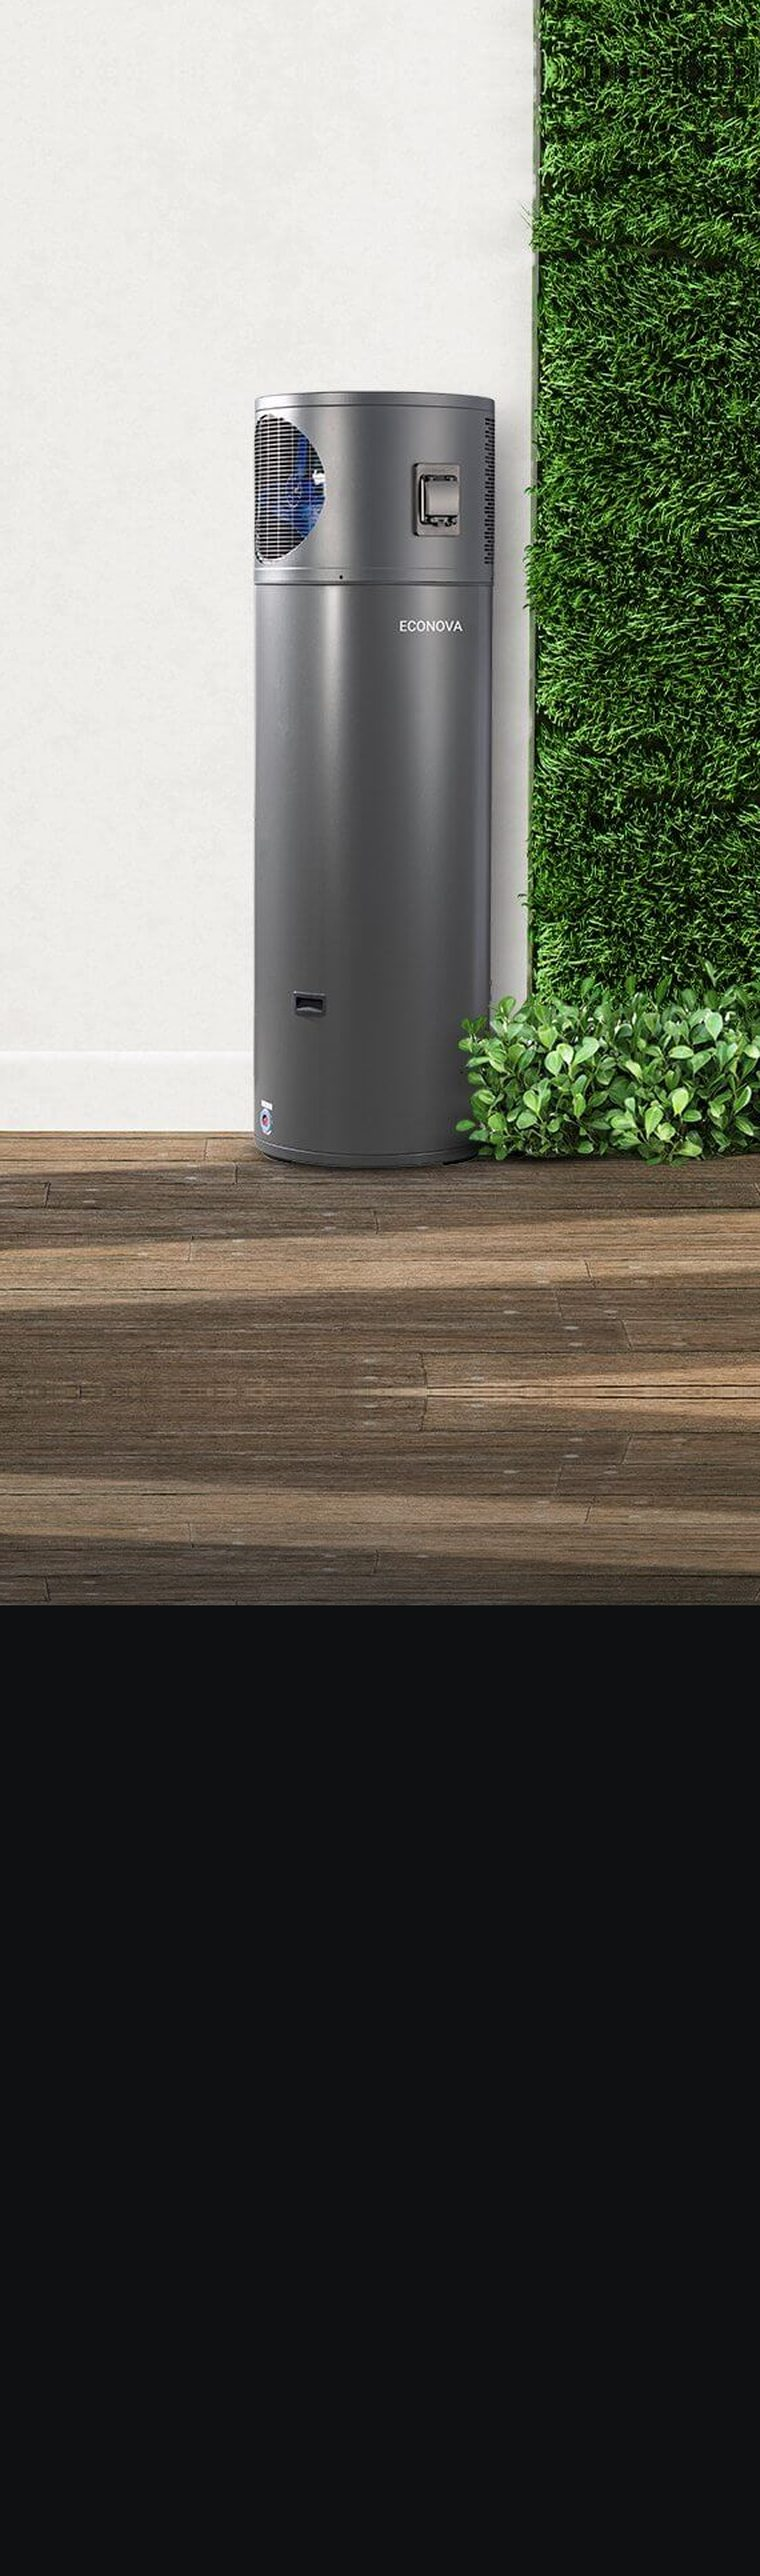
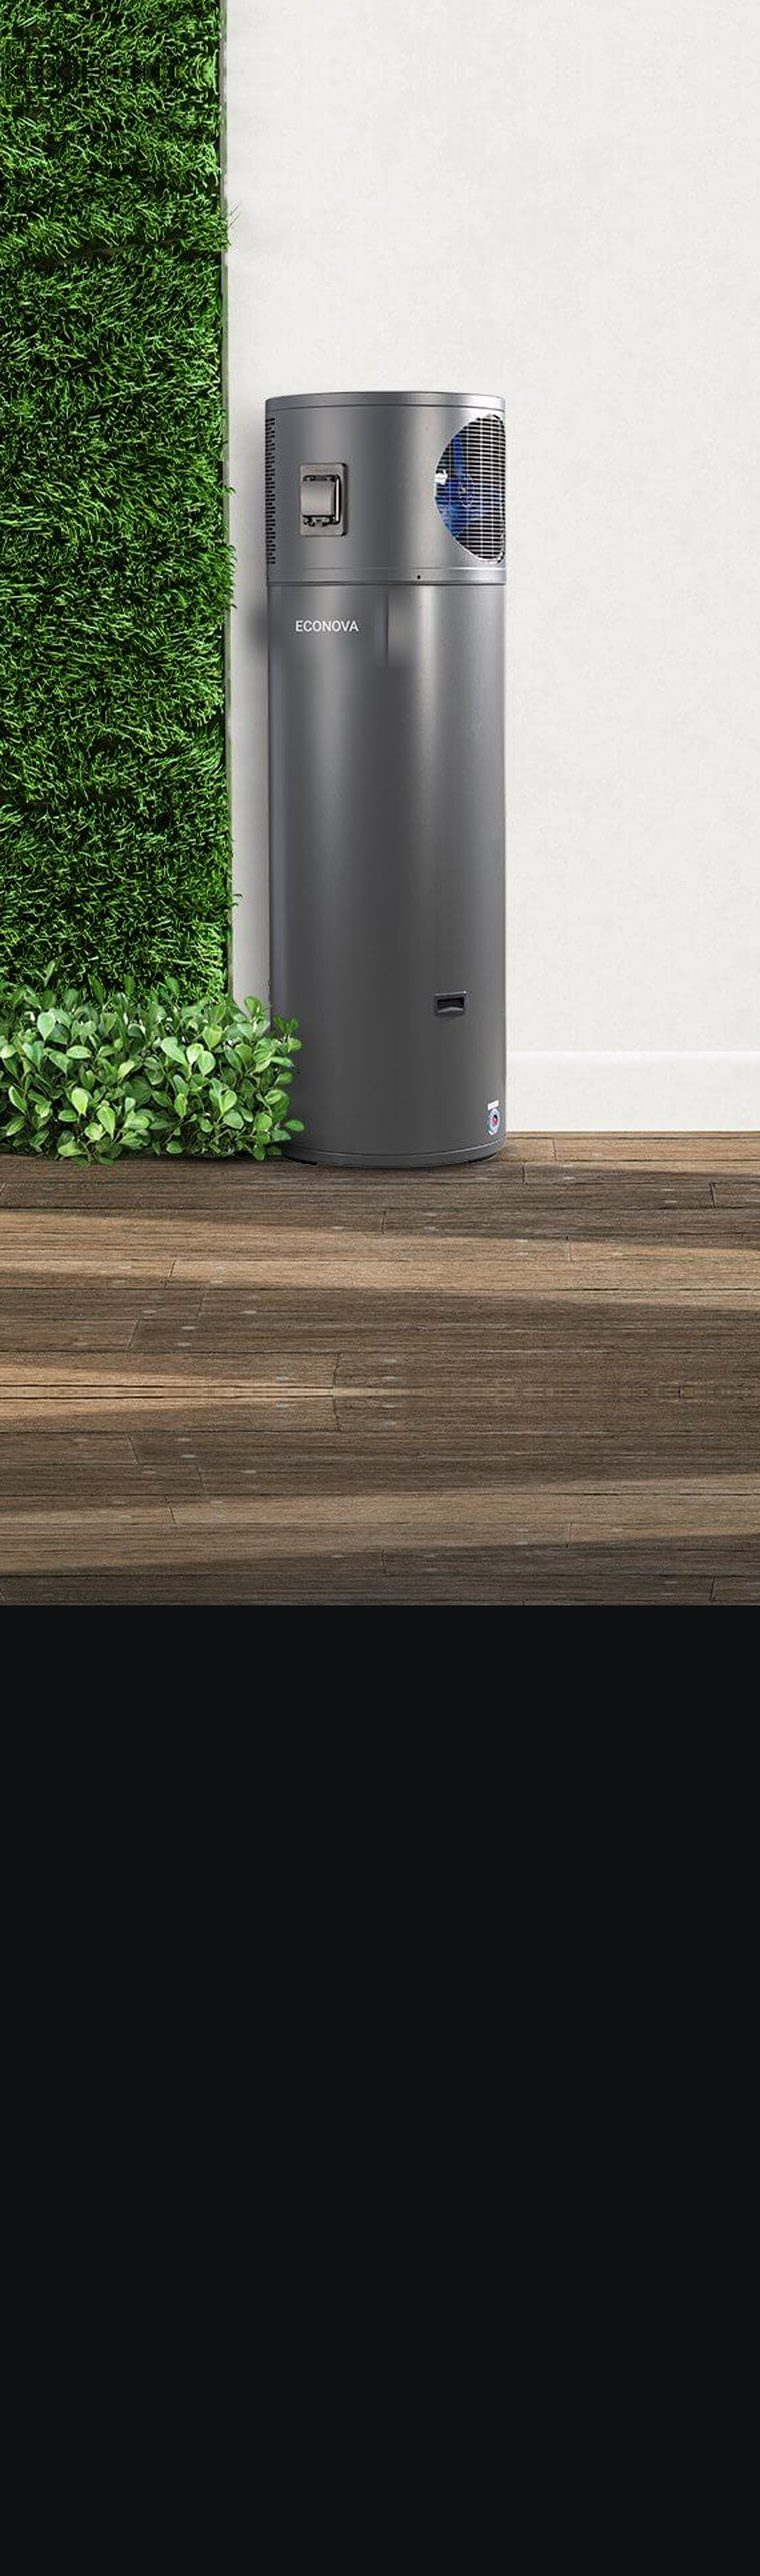
Heat pumps LP: mirror the hero scene so the unit clears the hero card
The background unit sat directly behind the overlaid hero card photo.
Mirrored both hero images (desktop + phone crop) so it sits on the open
side, and flipped the ECONOVA badge patch back so the brand still reads
the right way round. object-position mirrored to match.

diff --git a/hotwater/index.html b/hotwater/index.html
@@ -147,9 +147,9 @@ footer .logo-img{height:46px;margin-bottom:14px}
 /* HERO */
 .hero{background:linear-gradient(160deg,var(--cobalt-deep),var(--cobalt));color:var(--white);overflow:hidden;position:relative}
 .hero::after{content:"";position:absolute;inset:0;z-index:1;background:linear-gradient(95deg,oklch(0.14 0 0 /.90) 0%,oklch(0.16 0 0 /.78) 30%,oklch(0.18 0 0 /.46) 48%,oklch(0.20 0 0 /.15) 64%,oklch(0.20 0 0 /0) 80%);pointer-events:none}
-.hero-bg{position:absolute;inset:0;width:100%;height:100%;object-fit:cover;object-position:58% 50%;z-index:0}
+.hero-bg{position:absolute;inset:0;width:100%;height:100%;object-fit:cover;object-position:42% 50%;z-index:0}
 @media(max-width:860px){.hero::after{background:linear-gradient(180deg,oklch(0.13 0 0 /.86) 0%,oklch(0.14 0 0 /.72) 22%,oklch(0.15 0 0 /.50) 45%,oklch(0.16 0 0 /.44) 62%,oklch(0.18 0 0 /.58) 100%)}
-  .hero-bg{object-position:52% 42%}}
+  .hero-bg{object-position:48% 42%}}
 /* phones get a portrait crop of the same scene, so the whole unit stays in frame */
 @media(max-width:700px){.hero-bg{object-position:50% 50%}}
 .hero .wrap{position:relative;z-index:2;display:grid;grid-template-columns:1.05fr .95fr;grid-template-areas:"text card" "trust card";gap:0 clamp(20px,3vw,40px);
